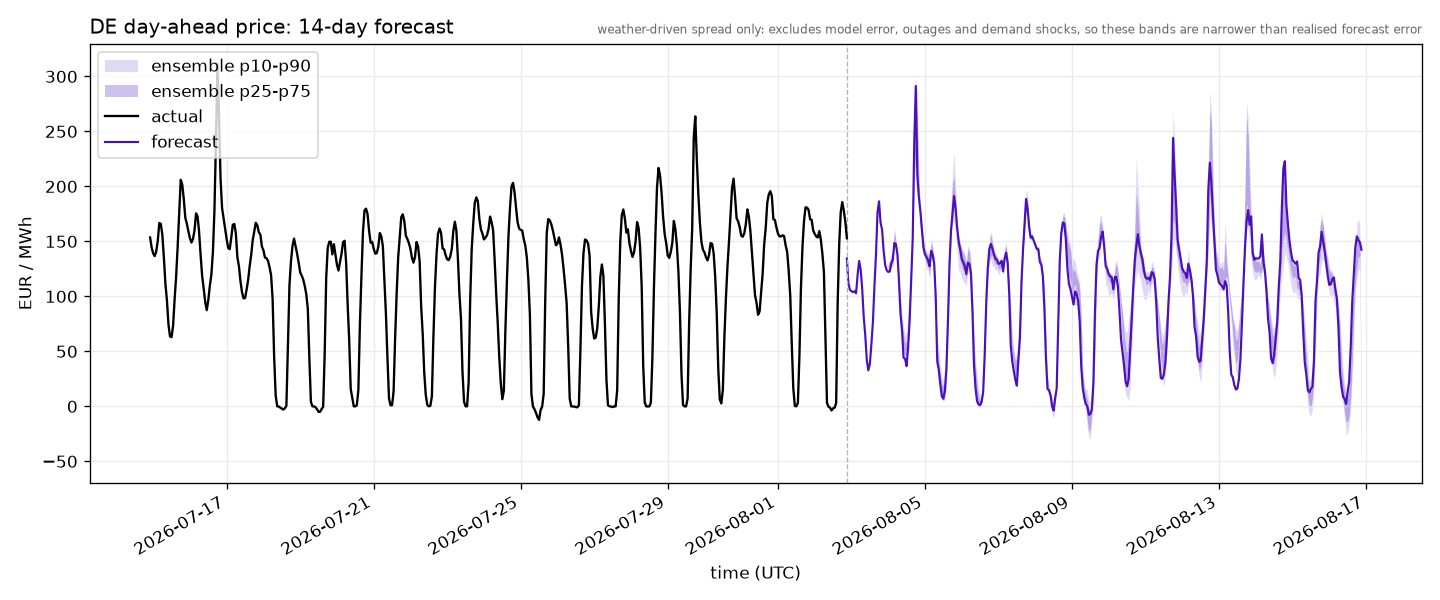
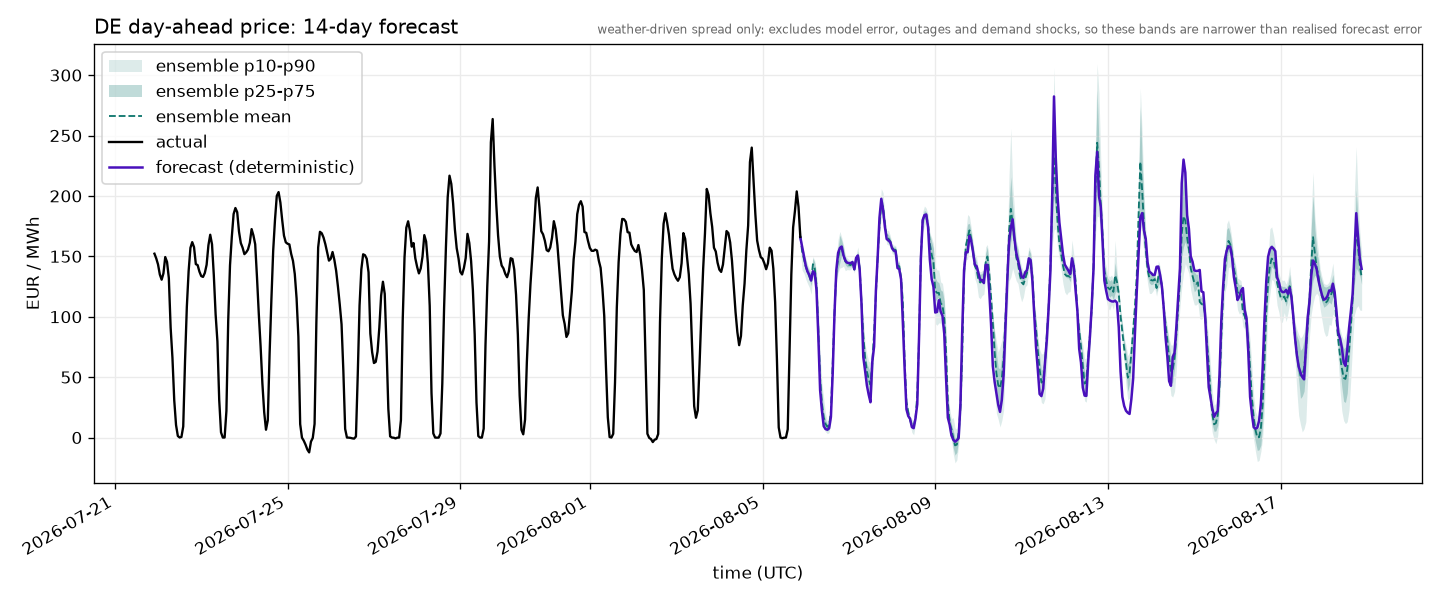
Refresh forecast plots from a clean ensemble run; show 14 days of history
FORECAST_HISTORY_DAYS drops from 21 to 14 - two weeks of settled context is
enough to read the handover without compressing the forward horizon, and the
window still snaps to a Berlin midnight, so the run shows 15 whole delivery days
of history.

The committed plots are regenerated from the first run with no known defects:
bands end exactly where the deterministic forecast does, no zero-spread hours,
51 members throughout, and the vertical marker line gone. Earlier images were a
stale-ensemble replay and should not have been read as output.

Development-record figures move to that run as well, since the previous ones
came from a run carrying both window bugs. Added the caveat that absolute widths
track the weather regime - an earlier calmer period gave 9,127 MW wind against
11,304 MW here - and that only the pattern is stable: wind widest, solar and
load tight, all widening with lead time. The deterministic forecast falls inside
p10-p90 for 85.9% of hours and p25-p75 for 59.4%.

diff --git a/src/eex_forecast/config.py b/src/eex_forecast/config.py
@@ -76,7 +76,7 @@ HORIZON_DAYS = 14
 # days the 168 h price lag starts resolving to NaN on the near horizon, which does change the forecast.
 # The window start is snapped forward to a Europe/Berlin midnight, so the retained span is whole German
 # delivery days rather than exactly this many 24 h blocks.
-FORECAST_HISTORY_DAYS = 21
+FORECAST_HISTORY_DAYS = 14
 # Rolling window (days) that `eex update` re-fetches each run. ENTSO-E publishes actuals with a lag and
 # revises them, so re-pulling the last couple of weeks keeps the database current without a full backfill.
 DEFAULT_REFRESH_DAYS = 14

diff --git a/docs/model-development.md b/docs/model-development.md
@@ -848,20 +848,26 @@ Design points worth keeping:
   run costs ~1,400 weighted calls. The first live run failed with HTTP 429 partway through; the client
   now paces requests through a rolling-window limiter and backs off in minutes.
 
-First live run after the coverage fix (2026-08-04, 51 members, 310 forward hours):
+First fully clean run — after the window-coverage fixes, so no zero-spread hours and no overhang past
+the deterministic forecast (2026-08-04, 51 members, 313 forward hours):
 
 | Model | Mean p10-p90 width |
 |---|---:|
-| Wind | 9,127.4 MW |
-| Solar | 2,768.9 MW |
-| Load | 2,181.0 MW |
-| Price | 30.7 EUR/MWh |
+| Wind | 11,304.3 MW |
+| Solar | 3,343.2 MW |
+| Load | 1,893.7 MW |
+| Price | 34.8 EUR/MWh |
 
 The shape is physically right: wind spread widens sharply with lead time, solar stays tight because
 deterministic geometry and clear-sky dominate its features, and load barely moves because it is
 calendar-driven. As a consistency check, the deterministic forecast fell inside the ensemble p10-p90
-band for **82.6%** of hours and inside p25-p75 for **53.9%** — close to what a well-behaved ensemble
+band for **85.9%** of hours and inside p25-p75 for **59.4%** — close to what a well-behaved ensemble
 containing the deterministic run as a typical member should give.
+
+These are one run's numbers, not a benchmark. Absolute widths track that day's weather regime: an
+earlier run over a calmer period gave a wind width of 9,127 MW and a price width of 30.7 EUR/MWh. Only
+the qualitative pattern — wind widest, solar and load tight, everything widening with lead time — is a
+stable property.
 
 **These bands are weather-driven spread only** and exclude sub-model error, price-model error, outages,
 and demand shocks. Against a price MAE of 11.3 EUR/MWh they are certainly too narrow to be read as
